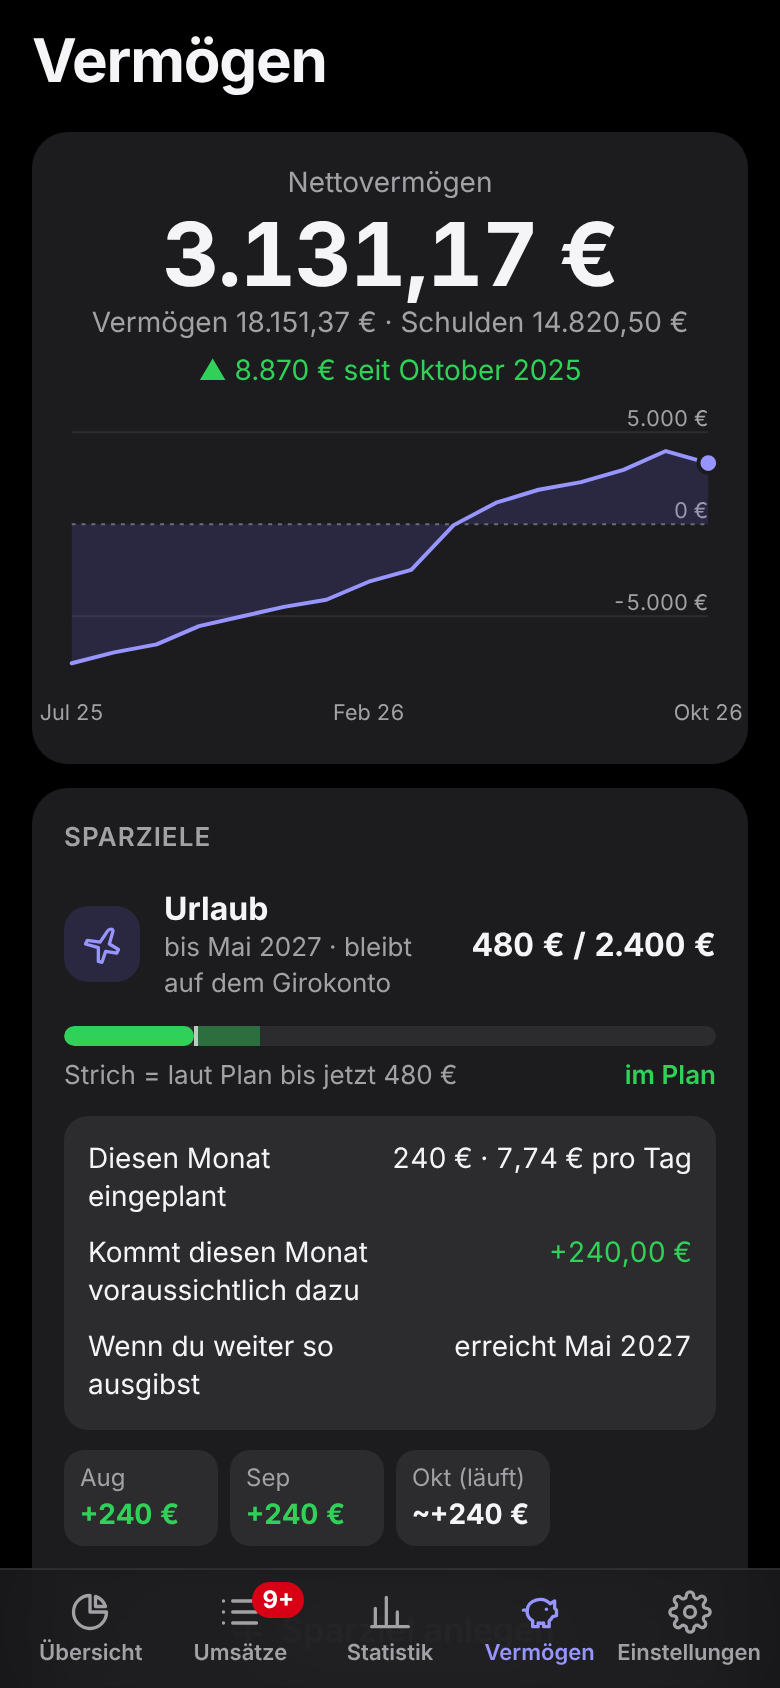
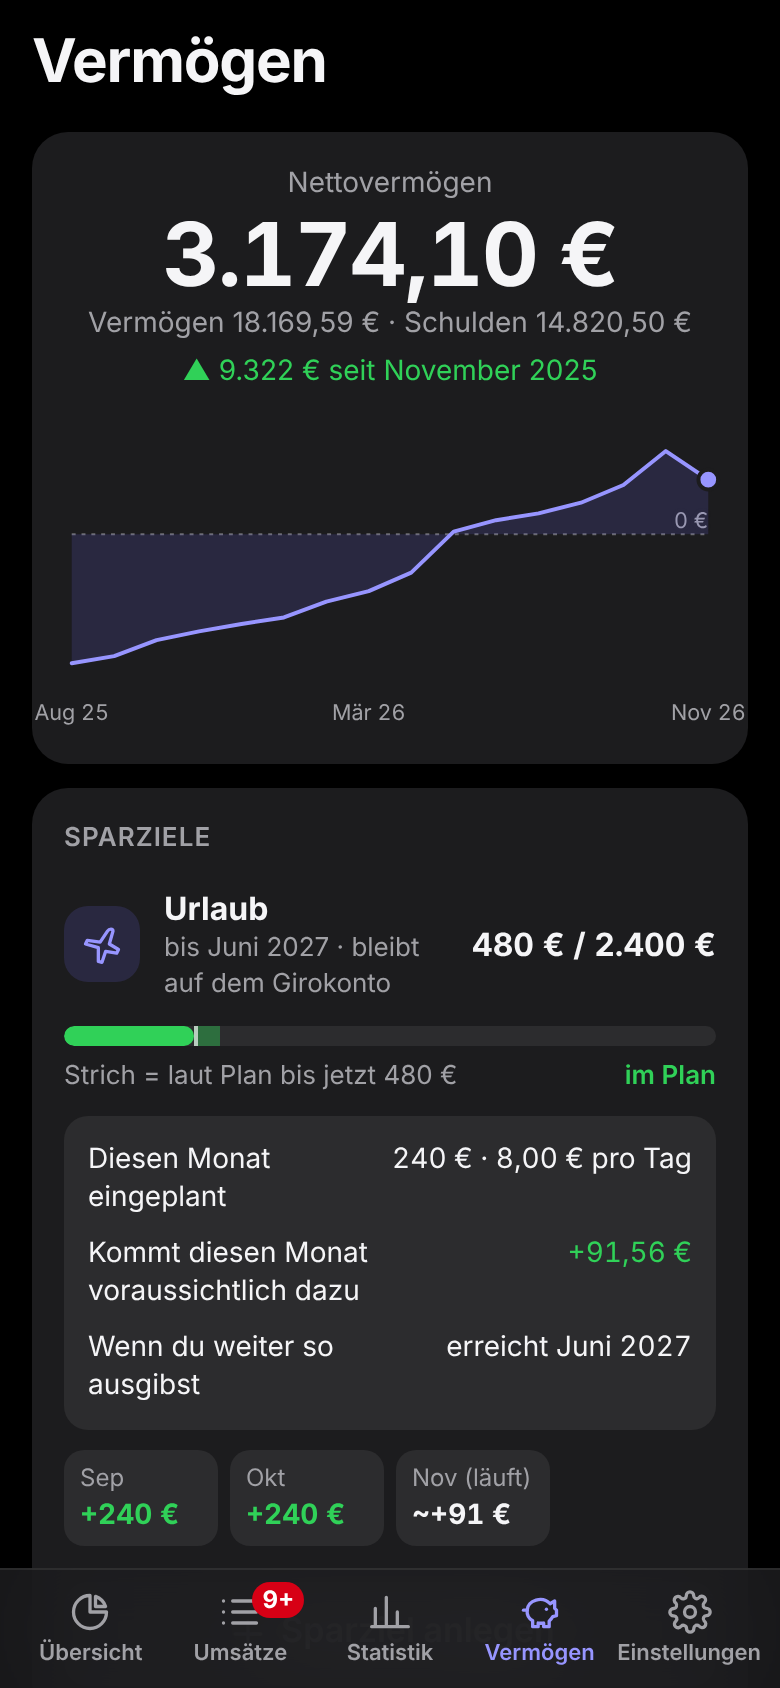
Update README screenshots; forecast status after savings goal (1.25.1)
Claude-Session: https://claude.ai/code/session_01QAm8hbi2NbAH5nWhDhnN4o

diff --git a/web/app-overview.js b/web/app-overview.js
@@ -17,6 +17,11 @@ function withGoals(r) {
     forecastEnd: r.forecastEnd - planned,
     forecastLow: r.forecastLow - planned,
     forecastHigh: r.forecastHigh - planned,
+    // Status nach der Verschiebung neu, sonst stünde „Knapp“ über einer Prognose im Minus
+    outlook: !r.outlook ? r.outlook
+      : r.forecastEnd - planned < 0 ? "minus"
+      : r.outlook === "early" ? "early"
+      : r.forecastLow - planned < 0 ? "tight" : "ok",
     series: {
       actual: r.series.actual.map((p) => ({ ...p, value: p.value - planned })),
       forecast: r.series.forecast.map((p) => ({ ...p, value: p.value - planned, lo: p.lo - planned, hi: p.hi - planned })),

diff --git a/web/app.js b/web/app.js
@@ -5,7 +5,7 @@
 
 // Version dieser App-Dateien (gleich wie __version__ in app/__init__.py). Weicht die
 // Version des Servers ab, zeigt das Handy noch eine zwischengespeicherte Fassung.
-const APP_VERSION = "1.25.0";
+const APP_VERSION = "1.25.1";
 const A = window.Analytics;
 const { t, tn, ord, locale } = window.I18N;
 

diff --git a/tools/screenshots.py b/tools/screenshots.py
@@ -1,11 +1,14 @@
 """Macht die Bilder für die README aus der Vorschau (dist/demo.html).
 
-Aufruf:  python tools/build_demo.py && python tools/screenshots.py [en|de]
+Aufruf:  python tools/screenshots.py [en|de]
          en -> docs/images/ (README.md), de -> docs/bilder/ (README.de.md)
-Braucht:  pip install playwright && python -m playwright install chromium
+Braucht:  pip install playwright time-machine && python -m playwright install chromium
+Baut die Vorschau dafür selbst – an einem 17. (siehe FAKE_NOW) – und danach wieder mit dem echten Datum.
 """
 import asyncio
+import datetime as dt
 import os
+import subprocess
 import sys
 from pathlib import Path
 
@@ -15,6 +18,17 @@ ROOT = Path(__file__).resolve().parent.parent
 DEMO = (ROOT / "dist" / "demo.html").as_uri()
 # Chromium-Pfad: Standard von Playwright, sonst per Umgebungsvariable CHROMIUM
 CHROMIUM = os.environ.get("CHROMIUM")
+# Bilder immer an einem 17. um 10:15: Monat halb vorbei, Prognose und Kalender haben etwas zu zeigen,
+# der Monatsrückblick (nur die ersten Tage) ist weg. Demo-Daten (build_demo.py) und Browser-Uhr nutzen diesen Tag.
+FAKE_NOW = dt.datetime.now().replace(day=17, hour=10, minute=15, second=0, microsecond=0)
+
+
+def build_demo(at=None):
+    script = str(ROOT / "tools" / "build_demo.py")
+    code = f"import runpy; runpy.run_path({script!r}, run_name='__main__')"
+    if at:
+        code = f"import time_machine; time_machine.travel({at.isoformat()!r}, tick=False).start(); " + code
+    subprocess.run([sys.executable, "-c", code], check=True, stdout=subprocess.DEVNULL)
 
 LANG = (sys.argv[1] if len(sys.argv) > 1 else "en").lower()
 OUT = ROOT / "docs" / ("bilder" if LANG == "de" else "images")
@@ -31,11 +45,13 @@ NAMES = {
 
 async def main():
     OUT.mkdir(parents=True, exist_ok=True)
+    build_demo(FAKE_NOW)
     async with async_playwright() as p:
         b = await p.chromium.launch(executable_path=CHROMIUM) if CHROMIUM else await p.chromium.launch()
         opts = dict(viewport={"width": 390, "height": 844}, device_scale_factor=2, is_mobile=True, has_touch=True, locale=LOCALE)
         ctx = await b.new_context(color_scheme="dark", **opts)
         page = await ctx.new_page()
+        await page.clock.set_fixed_time(FAKE_NOW)
         errs = []
         page.on("pageerror", lambda e: errs.append(str(e)))
         await page.goto(DEMO)
@@ -72,6 +88,7 @@ async def main():
         # heller Modus
         ctx2 = await b.new_context(color_scheme="light", **opts)
         p2 = await ctx2.new_page()
+        await p2.clock.set_fixed_time(FAKE_NOW)
         await p2.goto(DEMO)
         await p2.wait_for_timeout(3200)
         await p2.evaluate(hide_banner)
@@ -98,4 +115,8 @@ async def main():
         print(OUT, errs or "ohne Fehler")
         await b.close()
 
-asyncio.run(main())
+if __name__ == "__main__":
+    try:
+        asyncio.run(main())
+    finally:
+        build_demo()   # Vorschau wieder mit dem echten Datum

diff --git a/app/__init__.py b/app/__init__.py
@@ -2,4 +2,4 @@
 
 # Bei jeder Änderung, die auf den Pi geht, erhöhen (1.0.0 -> 1.0.1 für Korrekturen,
 # 1.1.0 für Neues). Dieselbe Nummer steht als APP_VERSION in web/app.js (Test prüft das).
-__version__ = "1.25.0"
+__version__ = "1.25.1"
